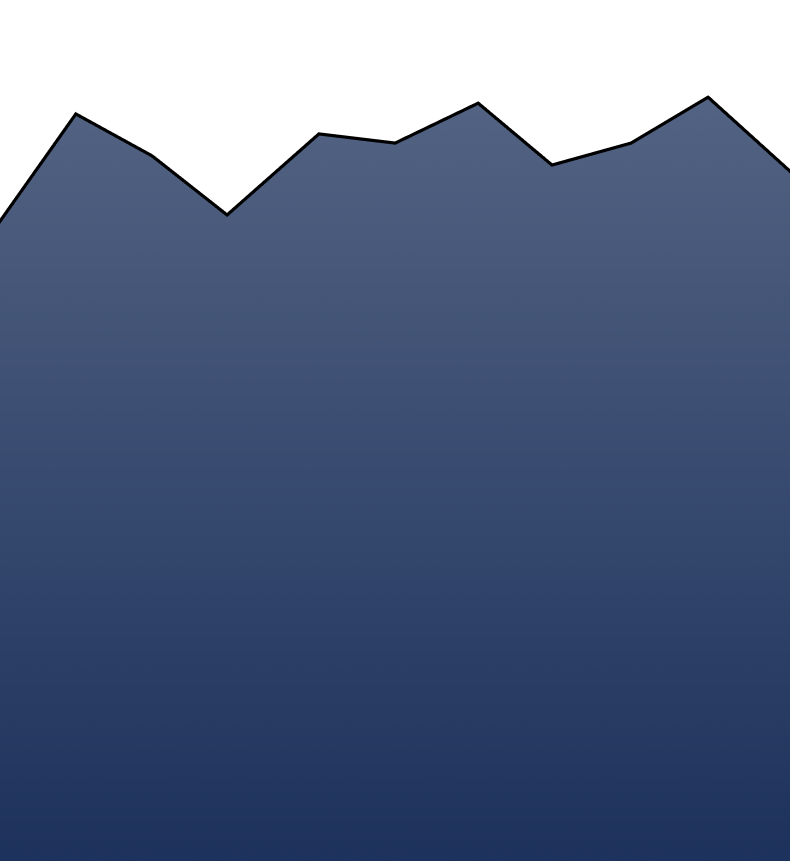
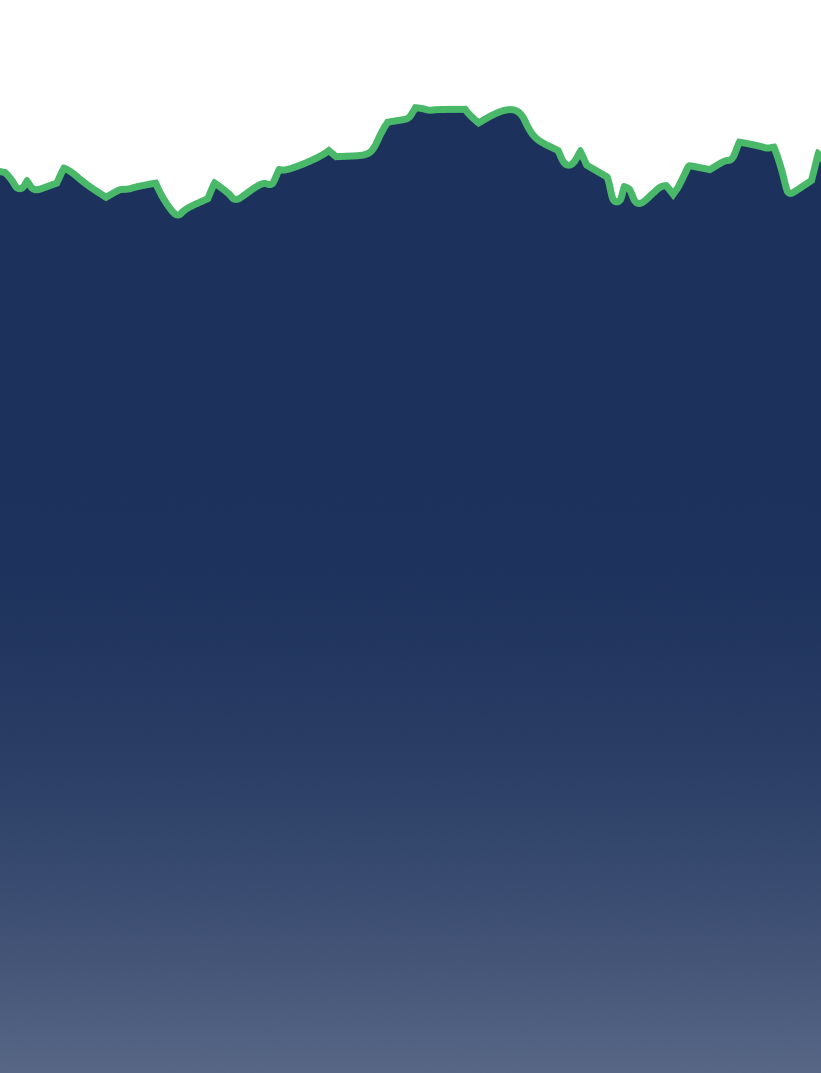
new background and reduced padding right/left on mobile

diff --git a/src/components/navbar/navbar.module.scss b/src/components/navbar/navbar.module.scss
@@ -315,3 +315,9 @@ $easeOutBack: cubic-bezier(0.175, 0.885, 0.32, 1.275);
     }
   }
 }
+
+@media (max-width: 500px) {
+  .navbar {
+    padding: 1em 1em;
+  }
+}
